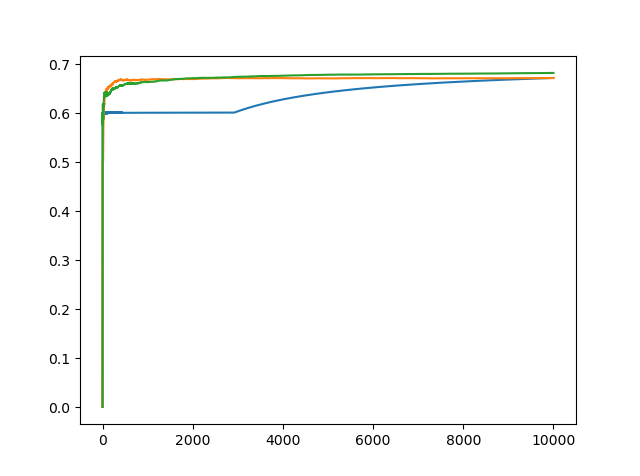
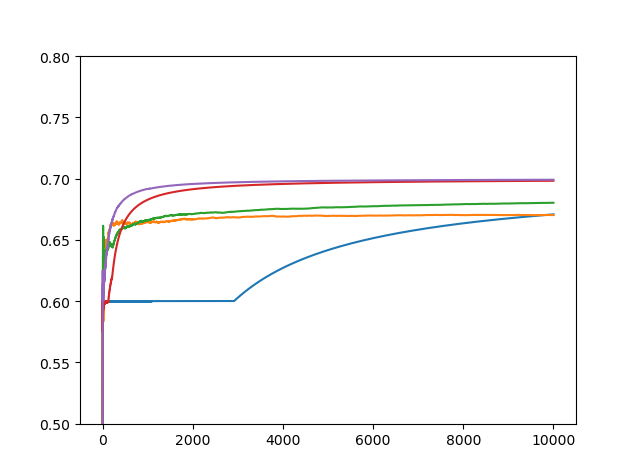
ML

diff --git a/5.ML_F&T/Volume 12/1.Multi-Armed Bandits/1.Stochastic_Bandits_Code.md b/5.ML_F&T/Volume 12/1.Multi-Armed Bandits/1.Stochastic_Bandits_Code.md
@@ -6,6 +6,13 @@
   + $\epsilon$-固定贪心算法
   + $\epsilon$-衰减贪心算法
 
++ **自适应算法**
+
+  + 连续淘汰算法
+  + UCB1算法
+
++ **代码**
+
   ```python
   import numpy as np
   import matplotlib.pyplot as plt
@@ -13,7 +20,7 @@
   
   
   # reward:假设一个arm的reward分布服从伯努利分布
-  R = np.array([0.5, 0.6, 0.7])
+  R = np.array([0.5, 0.7, 0.6])
   
   K = 3  # arm数量K
   T = 10000  # 总轮次T
@@ -33,7 +40,6 @@
       sum_reward = np.zeros(T + 1)  # 总奖赏
       mean_reward = np.zeros(T + 1)  # 平均奖赏
       Q = np.zeros(K)  # 每个arm的平均奖赏
-      count = np.zeros(K)  # 每个arm被选则的次数  
       # 探索过程
       for t in range(K * N):
           sum_reward[t + 1] = sum_reward[t] + R[t % K]
@@ -92,24 +98,122 @@
       y = mean_reward
       plt.plot(x, y)
   
+  
+  def successiveElimination():
+      sum_reward = np.zeros(T + 1)  # 总奖赏
+      mean_reward = np.zeros(T + 1)  # 平均奖赏
+      Q = np.zeros(K)  # 每个arm的平均奖赏
+      count = np.zeros(K)  # 每个arm被选则的次数
+      r = np.zeros(K)  # 置信半径
+      a = np.zeros(K)  # 是否淘汰标记,1表示淘汰
+      UCB = np.zeros(K)  # 上界
+      LCB = np.zeros(K)  # 下界
+      index = 0  # 计算arm序号的辅助量
+      t = 0  # 第t轮
+      amax = 0  # 最优arm
+  
+      while t < T:
+  
+          # 轮流选择 arm
+          if a[index % K] == 0:
+              k = index % K
+              index = index + 1
+          else:
+              index = index + 1
+              continue
+  
+          sum_reward[t + 1] = sum_reward[t] + R[k]  # 累积奖赏
+          mean_reward[t + 1] = sum_reward[t + 1] / (t + 1)  # 平均累积奖赏
+          r[k] = math.sqrt((2 * math.log(T))) / (count[k] + 1)  # 序号k的arm的置信半径
+          Q[k] = (Q[k] * count[k] + R[k]) / (count[k] + 1)  # 序号k的arm的平均累积奖赏
+          UCB[k] = Q[k] + r[k]  # 上界公式
+          LCB[k] = Q[k] - r[k]  # 下界公式
+          count[k] = count[k] + 1  # 序号为k的arm的被选择次数
+          t = t + 1
+  
+          # 淘汰非最优arm
+          for i in range(K):
+              if (UCB[i] < LCB[k]) & (a[i] != 1):
+                  a[i] = 1
+  
+          # 判断是否只剩一个最优arm
+          cnt = 0
+          for i in range(K):
+              if a[i] == 1:
+                  cnt = cnt + 1
+          if cnt == K - 1:
+              amax = k
+              break
+  
+      # 第二阶段，利用
+      while t < T:
+          sum_reward[t + 1] = sum_reward[t] + R[amax]
+          mean_reward[t + 1] = sum_reward[t + 1] / (t + 1)
+          t = t + 1
+  
+      x = np.arange(T + 1)
+      y = mean_reward
+      plt.plot(x, y)
+  
+  
+  def UCB1():
+      sum_reward = np.zeros(T + 1)  # 总奖赏
+      mean_reward = np.zeros(T + 1)  # 平均奖赏
+      Q = np.zeros(K)  # 每个arm的平均奖赏
+      count = np.zeros(K)  # 每个arm被选则的次数
+      r = np.zeros(K)  # 置信半径
+      a = np.zeros(K)  # 是否淘汰标记,1表示淘汰
+      UCB = np.zeros(K)  # 上界
+      LCB = np.zeros(K)  # 下界
+      index = 0  # 计算arm序号的辅助量
+      t = 0  # 第t轮
+  
+      while t < K:
+          sum_reward[t + 1] = sum_reward[t] + R[t]  # 累积奖赏
+          mean_reward[t + 1] = sum_reward[t + 1] / (t + 1)  # 平均累积奖赏
+          r[t] = math.sqrt((2 * math.log(T))) / (count[t] + 1)  # 序号k的arm的置信半径
+          Q[t] = (Q[t] * count[t] + R[t]) / (count[t] + 1)  # 序号k的arm的平均累积奖赏
+          UCB[t] = Q[t] + r[t]  # 上界公式
+          count[t] = count[t] + 1  # 序号为k的arm的被选择次数
+          t = t + 1
+      while t < T:
+          k = 0
+          for i in range(K):
+              if UCB[k] < UCB[i]:
+                  k = i
+          sum_reward[t + 1] = sum_reward[t] + R[k]  # 累积奖赏
+          mean_reward[t + 1] = sum_reward[t + 1] / (t + 1)  # 平均累积奖赏
+          r[k] = math.sqrt((2 * math.log(T))) / (count[k] + 1)  # 序号k的arm的置信半径
+          Q[k] = (Q[k] * count[k] + R[k]) / (count[k] + 1)  # 序号k的arm的平均累积奖赏
+          UCB[k] = Q[k] + r[k]  # 上界公式
+          LCB[k] = Q[k] - r[k]  # 下界公式
+          count[k] = count[k] + 1  # 序号为k的arm的被选择次数
+          t = t + 1
+      x = np.arange(T + 1)
+      y = mean_reward
+      plt.plot(x, y)
+  
+  
   if __name__ == '__main__':
       fig = plt.figure()
       exploreFirst()
       epsilonFixedGreedy()
       epsilonDacayGreedy()
+      successiveElimination()
+      UCB1()
+      plt.ylim(0.5, 0.8)
       plt.show()
   ```
 
+  + 图像
+
   ![img](pic/2.png)
 
-  蓝色是探索优先算法，黄色是$\epsilon$-固定贪心算法，绿色是$\epsilon$-衰减贪心算法
-
-+ **自适应算法**
-  
-  + 连续淘汰算法
-  + UCB1算法
-  
-  
+  + 蓝色：探索有限算法
+  + 黄线：$\epsilon$-固定贪心算法
+  + 绿线：$\epsilon$-衰减贪心算法
+  + 红线：连续淘汰算法
+  + 紫线：UCB1算法
 
 
 

diff --git a/5.ML_F&T/Volume 12/1.Multi-Armed Bandits/1.Stochastic Bandits.md b/5.ML_F&T/Volume 12/1.Multi-Armed Bandits/1.Stochastic Bandits.md
@@ -255,7 +255,7 @@
     while(true):
     	轮流选择所有的arm a;
     	如果存在a，满足UCB[t][a'] < LCB[t][a]:
-    		a的状态为"dead";
+    		a'的状态为"dead";
     	如果只剩一个a:
     		amax=a;
     		break;
@@ -312,6 +312,7 @@
   
     + 连续消除算法是自适应探索算法，相比非自适应探索算法，regret的上界是log的。
   + regret上界形式为$C\cdot f(T)$，$f(\cdot)$与$\mu$无关，$C$与$T$无关。如果$C$和$\mu$无关，称为独立实例；否成称为依赖实例。
+    
     + remark1.6说明第二种求regret的方法的改进，将$\Delta(a)$替换掉，得到$R(T) \leq O(\sqrt{K T \log T})$.
   
 + **不确定性的乐观主义**

diff --git a/4.强化学习/2.K-摇臂赌博机.md b/4.强化学习/2.K-摇臂赌博机.md
@@ -18,7 +18,7 @@
 
   + 原理：尝试$n$次后计算平均奖赏。
 
-  + 符号说明：尝试次数为$n$，摇臂序号为$k$，第$i$次尝试的奖赏值为$v_i$，第$n$次尝试后摇臂$k$的平均奖赏为$Q(k)$。
+  + 符号说明：尝试次数为$n$，摇臂序号为$k$，第$i$次尝试的奖赏值为$v_i$，第$n$次摇臂$k$后的平均奖赏为$Q(k)$。
 
   + 公式
 
